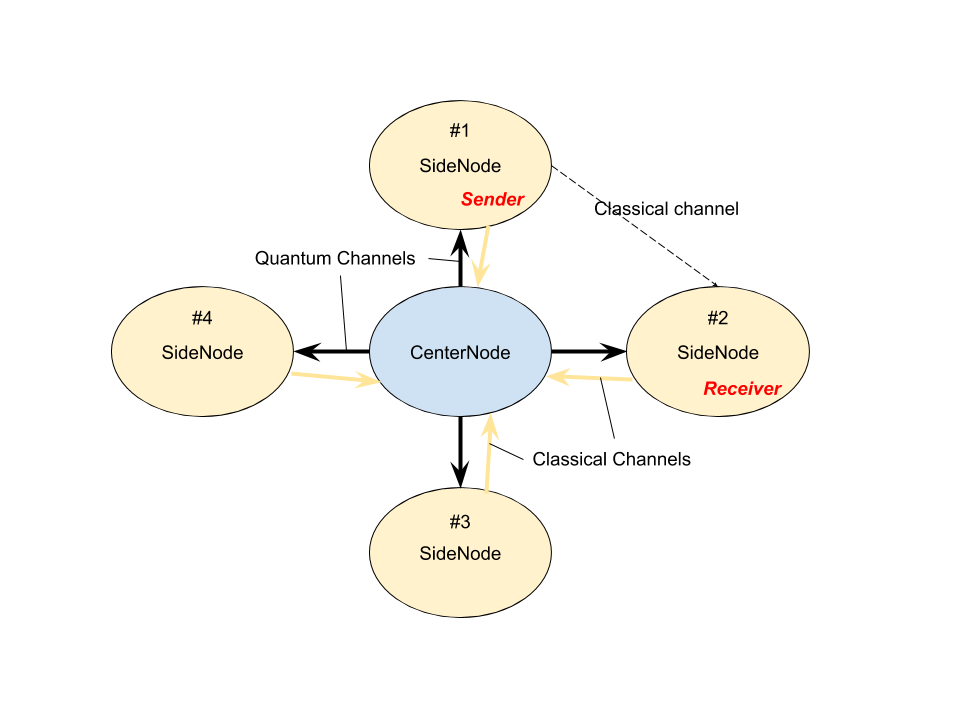
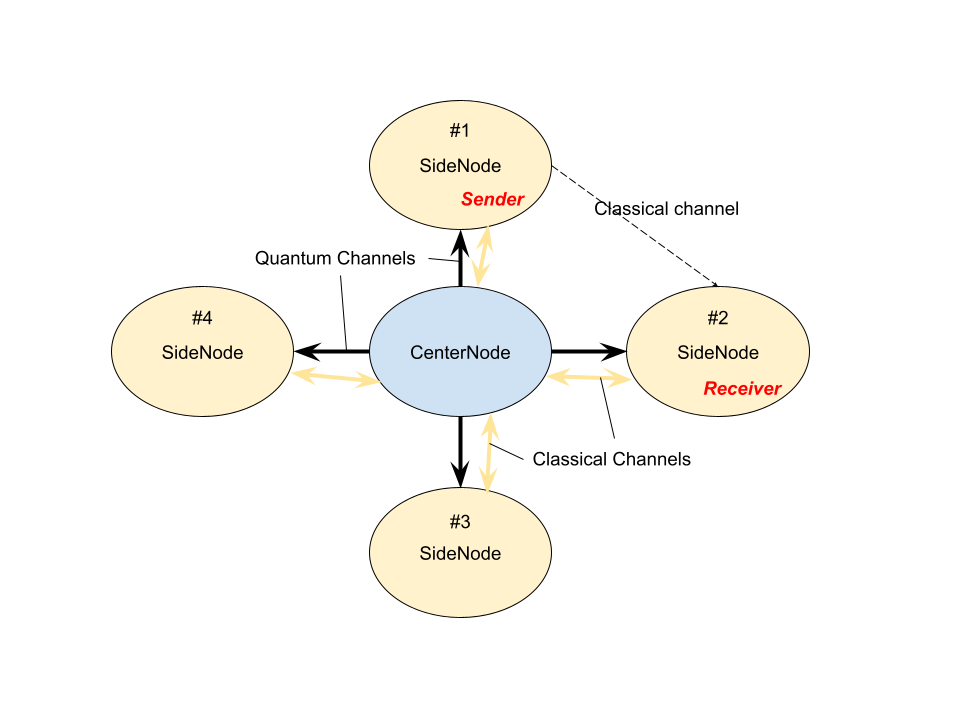
add ACK channels, update image

diff --git a/AnonymousTransmission/ATw_main.py b/AnonymousTransmission/ATw_main.py
@@ -28,8 +28,9 @@ def run_AT_sim(numNodes=4,fibre_len=10**-9,processorNoiseModel=None,memNoiseMmod
     centerQPortNameList=[]
     centerCPortNameList=[]
     QchannelList=[]
-    CchannelList=[]
-    
+    CchannelList1=[]
+    CchannelList2=[]
+
     '''
     senderID=randint(0,numNodes-1)
     receiverID=randint(0,numNodes-1)
@@ -47,7 +48,7 @@ def run_AT_sim(numNodes=4,fibre_len=10**-9,processorNoiseModel=None,memNoiseMmod
         sideProcessorList.append(createProcessorAT(name="ProcessorSide_"+str(i)))
         
         ### nodes=====================================================================
-        sideNodeList.append(Node("Node_"+str(i), port_names=["PortQside","PortCside"]))
+        sideNodeList.append(Node("Node_"+str(i), port_names=["PortQside","PortCside1","PortCside2"]))
         
         ### channels, Quantum and calssical=============================================
         QchannelList.append(QuantumChannel("QChannel_Center->Side_"+str(i),delay=10,length=fibre_len
@@ -55,12 +56,13 @@ def run_AT_sim(numNodes=4,fibre_len=10**-9,processorNoiseModel=None,memNoiseMmod
             FibreLossModel(p_loss_init=loss_init,p_loss_length=loss_len, rng=None),
             "delay_model": FibreDelayModel(c=QChV)}))
 
-        CchannelList.append(ClassicalChannel("CChannel_Side->Center_"+str(i),delay=10,length=fibre_len))
+        CchannelList1.append(ClassicalChannel("CChannel_Side->Center_"+str(i),delay=10,length=fibre_len))
+        CchannelList2.append(ClassicalChannel("CChannel_Center->Side_"+str(i),delay=10,length=fibre_len))
 
         ### record port list for center node===========================================
         centerQPortNameList.append("PortQcenter_"+str(i))
-        centerCPortNameList.append("PortCcenter_"+str(i))
-
+        centerCPortNameList.append("PortCcenter1_"+str(i))
+        centerCPortNameList.append("PortCcenter2_"+str(i))
 
     ## create center node and processor=======================================================
     allCenterPorts=[]
@@ -80,10 +82,18 @@ def run_AT_sim(numNodes=4,fibre_len=10**-9,processorNoiseModel=None,memNoiseMmod
             remote_port_name=sideNodeList[i].ports["PortQside"].name)
 
 
-        tmpRemotePortName="PortCcenter_"+str(i)
-        #print("connecting classical channel:",i," side node:",sideNodeList[i].name," channel:",CchannelList[i].name,"remote port:", tmpRemotePortName )
-        sideNodeList[i].connect_to(CenterNode, CchannelList[i],
-            local_port_name="PortCside", remote_port_name=tmpRemotePortName)
+        tmpRemotePortName="PortCcenter1_"+str(i)
+        #print("connecting classical channel:",i," side node:",sideNodeList[i].name," channel:",CchannelList1[i].name,"remote port:", tmpRemotePortName )
+        sideNodeList[i].connect_to(CenterNode, CchannelList1[i],
+            local_port_name="PortCside1", remote_port_name=tmpRemotePortName)
+        
+        
+        tmpRemotePortName="PortCcenter2_"+str(i)
+        #print("connecting classical channel:",i," side node:",sideNodeList[i].name," channel:",CchannelList2[i].name,"remote port:", tmpRemotePortName )
+        CenterNode.connect_to(sideNodeList[i], CchannelList2[i],
+            local_port_name=tmpRemotePortName , remote_port_name="PortCside2")
+        
+        
         
     
 

diff --git a/AnonymousTransmission/ATw_center.py b/AnonymousTransmission/ATw_center.py
@@ -56,7 +56,7 @@ class AT_Wstate_center(NodeProtocol):
 
         resultsCollector=[]
         for i in range(self.numNode-1,1,-1):
-            port = self.node.ports[self.portClist[i]]
+            port = self.node.ports["PortCcenter1_"+str(i)]
             yield self.await_port_input(port)
             res=port.rx_input().items[0]
             #print("C center port ",i," received mes res:",res)
@@ -66,10 +66,14 @@ class AT_Wstate_center(NodeProtocol):
         
         if sum(resultsCollector)>=1:
             print("C protocol aborted")
-            return 1
+            for i in range(self.numNode):
+                payload="Abort"
+                self.node.ports["PortCcenter2_"+str(i)].tx_output(payload)
         else:
-            print("C start teleportation")
-
+            print("C send approval to all sideNodes")
+            for i in range(self.numNode):
+                payload="Approved"
+                self.node.ports["PortCcenter2_"+str(i)].tx_output(payload)
 
         #yield self.await_program(processor=self.processor)
         #print("qubit gen finished")

diff --git a/AnonymousTransmission/ATw_side.py b/AnonymousTransmission/ATw_side.py
@@ -18,7 +18,8 @@ Side nodes
 
 class AT_Wstate_side(NodeProtocol):
     
-    def __init__(self,node,processor,id,sender=False,receiver=False,portQlist=["PortQside"],portClist=["PortCside"]): 
+    def __init__(self,node,processor,id,sender=False,receiver=False
+        ,portQlist=["PortQside"],portClist=["PortCside1","PortCside2"]): 
         super().__init__()
         self.node=node
         self.processor=processor
@@ -68,8 +69,11 @@ class AT_Wstate_side(NodeProtocol):
             print("S else case")
             #yield self.await_program(processor=self.processor)
             
-    
-        
+        port=self.node.ports["PortCside2"]
+        yield self.await_port_input(port)
+        rec = port.rx_input().items
+        print("S ID:",self.id," I received ans:",rec)
+
         
         
         
